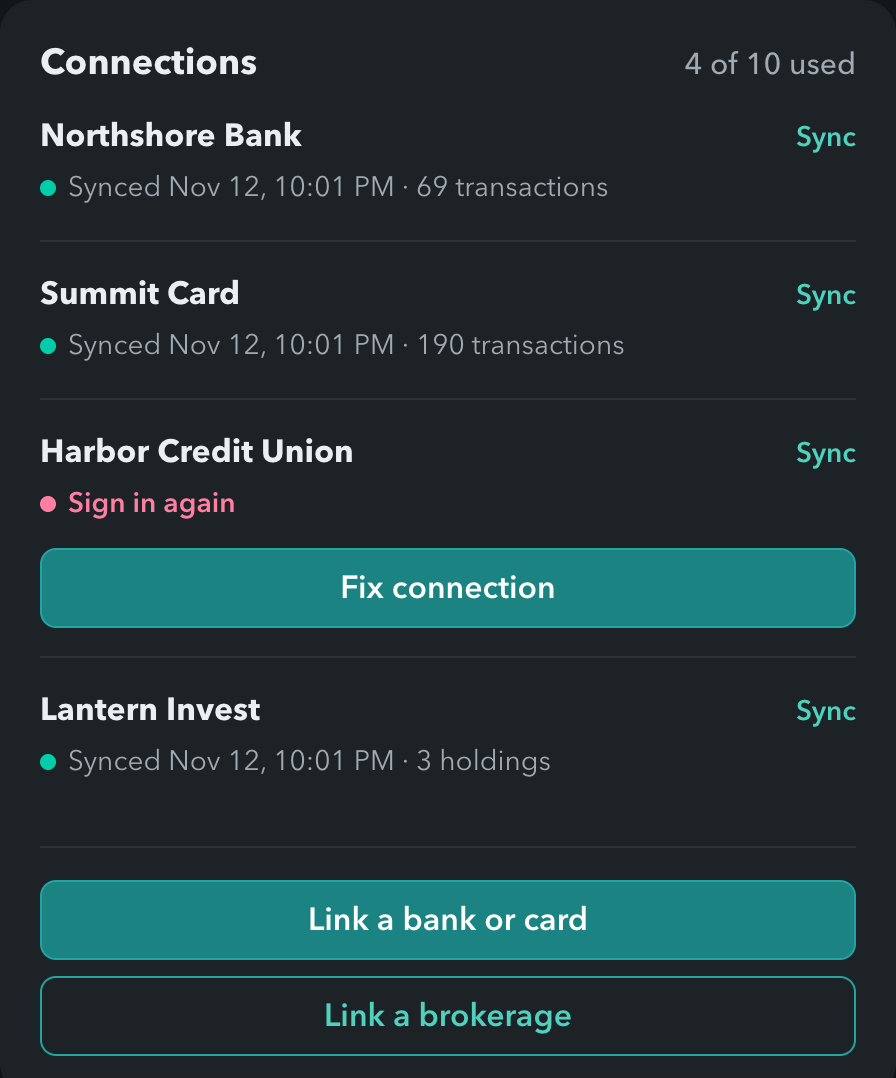
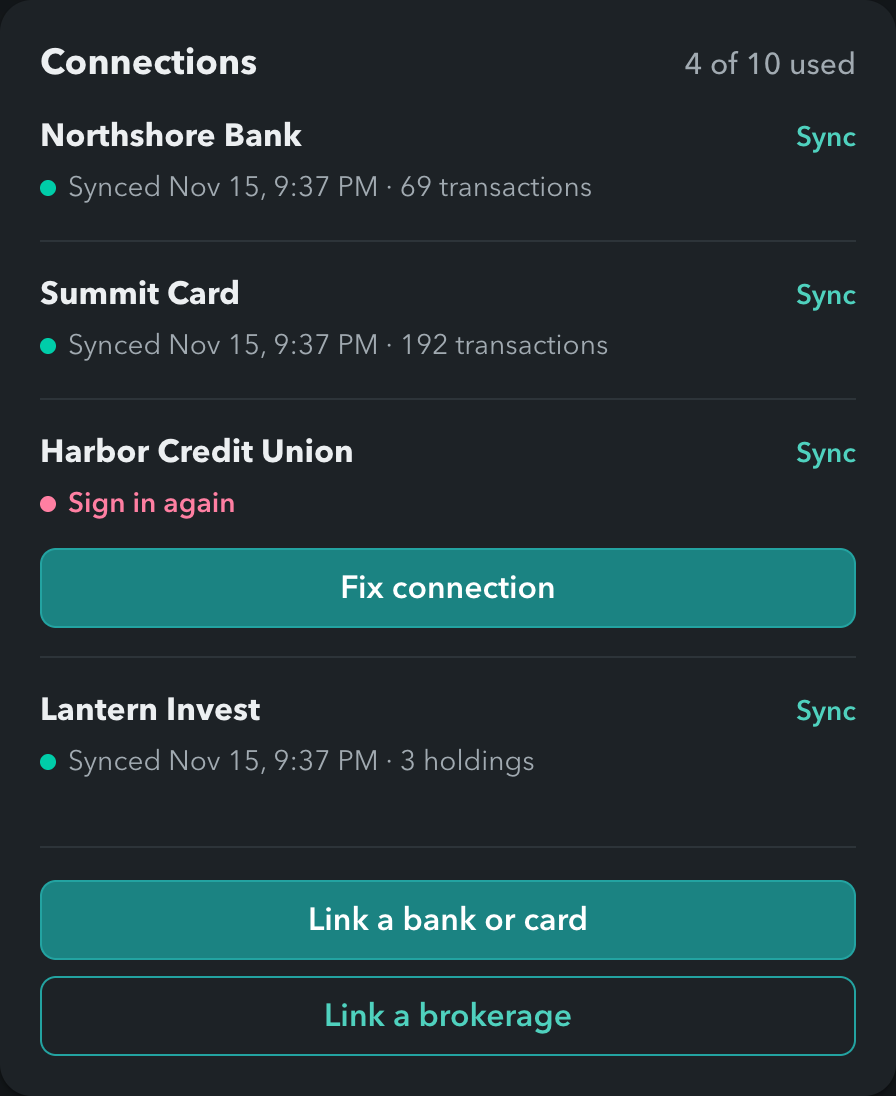
Homepage: feature cards no longer cut off at the bottom
The Connections crop was capped at 539px, which cut the card off under its last button, and the Activity
category menu ran past its card's bottom edge. The Connections crop now takes the whole card, the shot script
stretches the Activity card to hold the menu, and the captions line up across a row when two cards differ in
height. Shot from made-up data.

Claude-Session: https://claude.ai/code/session_01BaVsJcBxFdA3k9r5XkVC6W

diff --git a/site/style.css b/site/style.css
@@ -103,7 +103,9 @@ p, li, dd { text-wrap: pretty; }
 /* Four app cards two by two, each with one caption naming what the card can't show. */
 .feats { background: var(--app); padding: 120px 0 128px; }
 .feats .grid { display: grid; grid-template-columns: repeat(2, minmax(0, 1fr)); gap: 72px 64px; }
-.feats figcaption { padding: 18px 4px 0; font-size: 18px; font-weight: 600; line-height: 1.35; letter-spacing: -.01em; color: var(--ink); }
+/* Cards in a row can differ in height; the captions still line up across it. */
+.feats figure { display: flex; flex-direction: column; }
+.feats figcaption { margin-top: auto; padding: 18px 4px 0; font-size: 18px; font-weight: 600; line-height: 1.35; letter-spacing: -.01em; color: var(--ink); }
 /* Setup is one commented block: what you need sits in the comments, in the order you need it. */
 .setup { max-width: 728px; padding-top: 120px; padding-bottom: 112px; }
 .setup h2 { font-size: clamp(30px, 3vw, 40px); letter-spacing: -.03em; line-height: 1.1; font-weight: 700; margin: 0 0 28px; text-align: center; }
